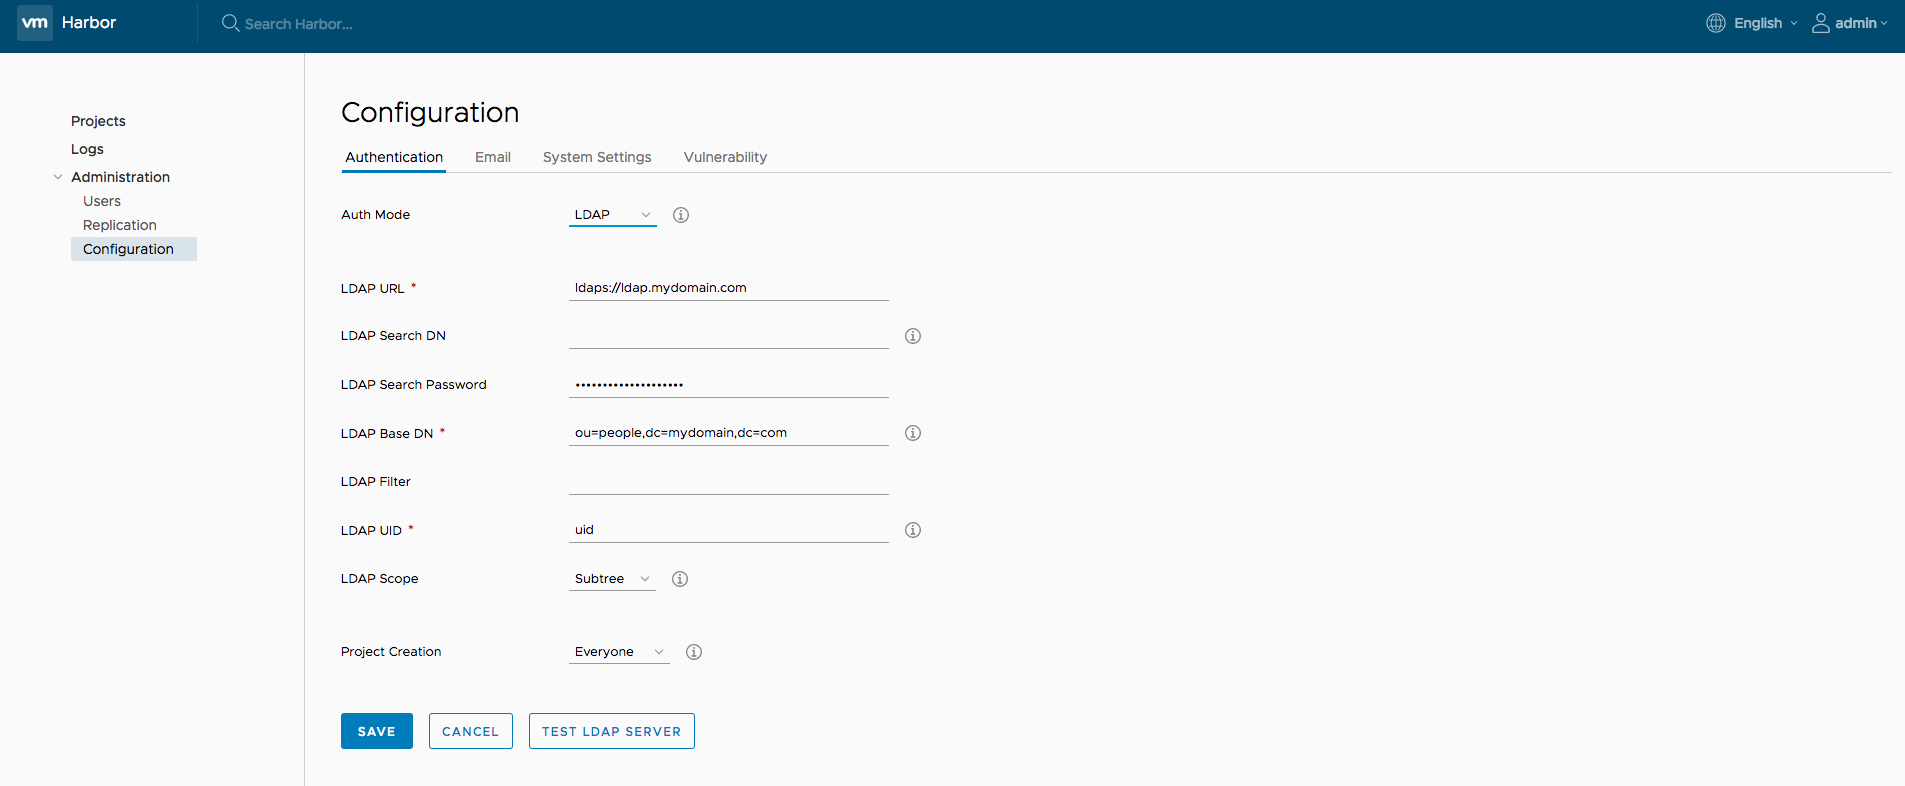
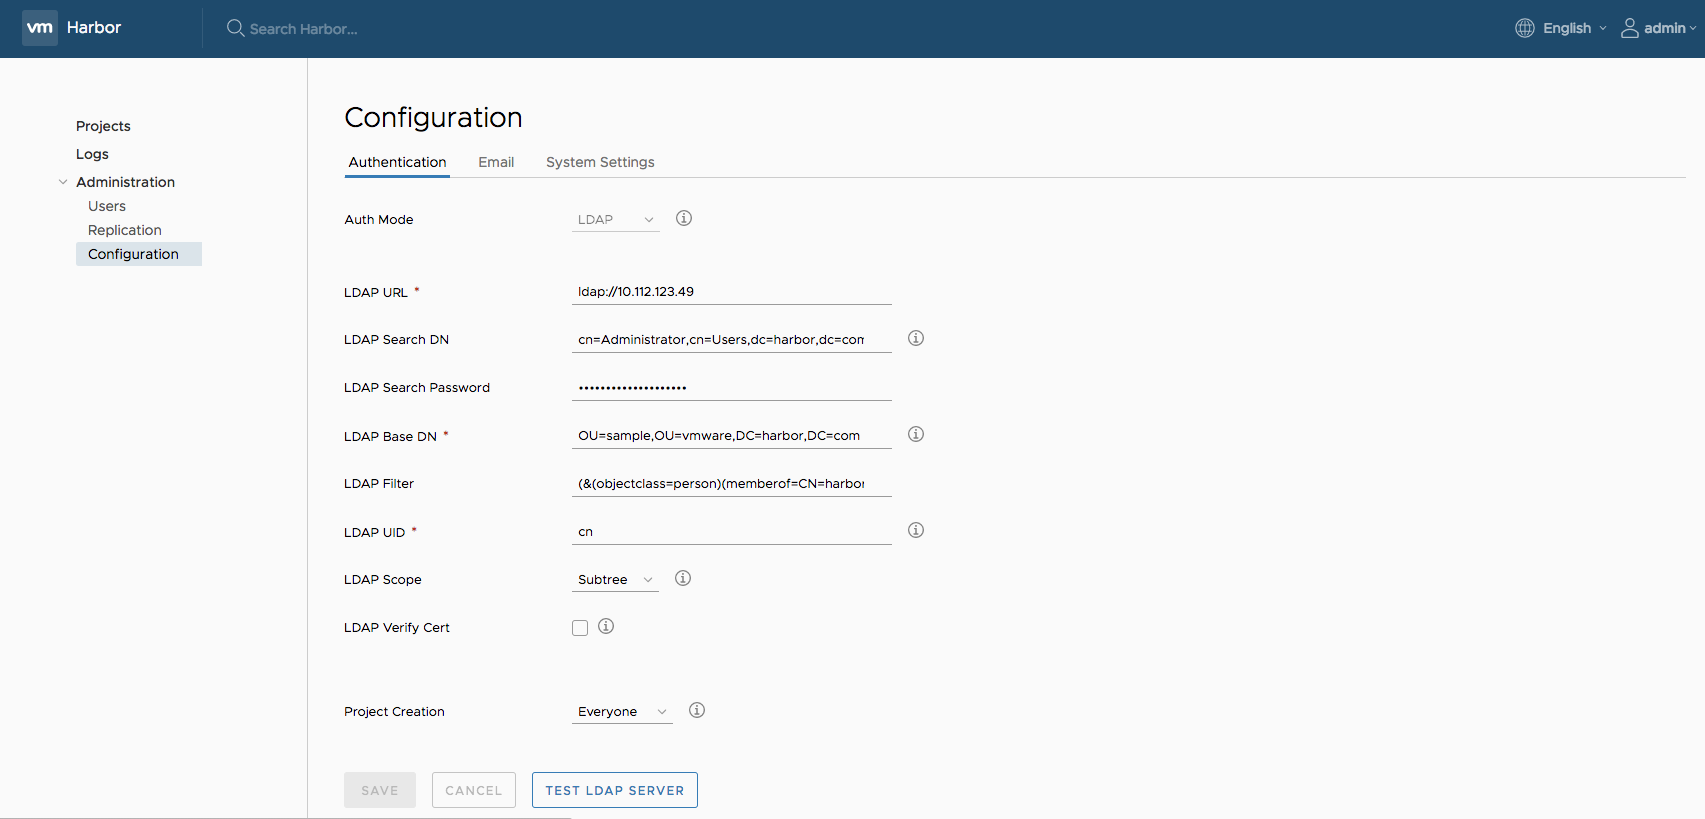
Document update for LDAP/OVA

diff --git a/docs/user_guide.md b/docs/user_guide.md
@@ -59,9 +59,9 @@ Harbor supports two authentication modes:
 
 	Under this authentication mode, users whose credentials are stored in an external LDAP or AD server can log in to Harbor directly.  
 	
-	When an LDAP/AD user logs in by *username* and *password*, Harbor binds to the LDAP/AD server with the **"LDAP Search DN"** and **"LDAP Search Password"** described in [installation guide](installation_guide.md). If it succeeded, Harbor looks up the user under the LDAP entry **"LDAP Base DN"** including substree. The attribute (such as uid, cn) specified by **"LDAP UID"** is used to match a user with the *username*. If a match is found, the user's *password* is verified by a bind request to the LDAP/AD server.  
+	When an LDAP/AD user logs in by *username* and *password*, Harbor binds to the LDAP/AD server with the **"LDAP Search DN"** and **"LDAP Search Password"** described in [installation guide](installation_guide.md). If it succeeded, Harbor looks up the user under the LDAP entry **"LDAP Base DN"** including substree. The attribute (such as uid, cn) specified by **"LDAP UID"** is used to match a user with the *username*. If a match is found, the user's *password* is verified by a bind request to the LDAP/AD server. Uncheck **"LDAP Verify Cert"** if the LDAP/AD server uses a self-signed or an untrusted certificate.
 	
-	Self-registration, changing password and resetting password are not supported under LDAP/AD authentication mode because the users are managed by LDAP or AD.  
+	Self-registration, deleting user, changing password and resetting password are not supported under LDAP/AD authentication mode because the users are managed by LDAP or AD.  
 
 ## Managing projects
 A project in Harbor contains all repositories of an application. No images can be pushed to Harbor before the project is created. RBAC is applied to a project. There are two types of projects in Harbor:  
@@ -97,7 +97,7 @@ Project properties can be changed by clicking "Configuration".
 
 ## Managing members of a project  
 ### Adding members  
-You can add members with different roles to an existing project.  
+You can add members with different roles to an existing project. You can add a LDAP/AD user to project members under LDAP/AD authentication mode. 
 
 ![browse project](img/new_add_member.png)
 
@@ -134,7 +134,7 @@ Entering a keyword in the search field at the top lists all matching projects an
 
 ## Administrator options  
 ### Managing user  
-Administrator can add "Administrator" role to an ordinary user by click button on the left and select "Set as Administrator". To delete a user, select "Delete". 
+Administrator can add "Administrator" role to an ordinary user by click button on the left and select "Set as Administrator". To delete a user, select "Delete". Deleting user is only supported under database authentication mode.
 
 ![browse project](img/new_set_admin_remove_user.png)
 

diff --git a/docs/install_guide_ova.md b/docs/install_guide_ova.md
@@ -109,3 +109,5 @@
     If everything worked properly, you should see the administration console. Refer to **[Harbor User Guide](user_guide.md)** for how to use Harbor.
 
     ![Screenshot of after login](img/ovainstall/afterlogin.png)
+
+Please run "tdnf distro-sync" command from time to time to keep the OS up to date.
